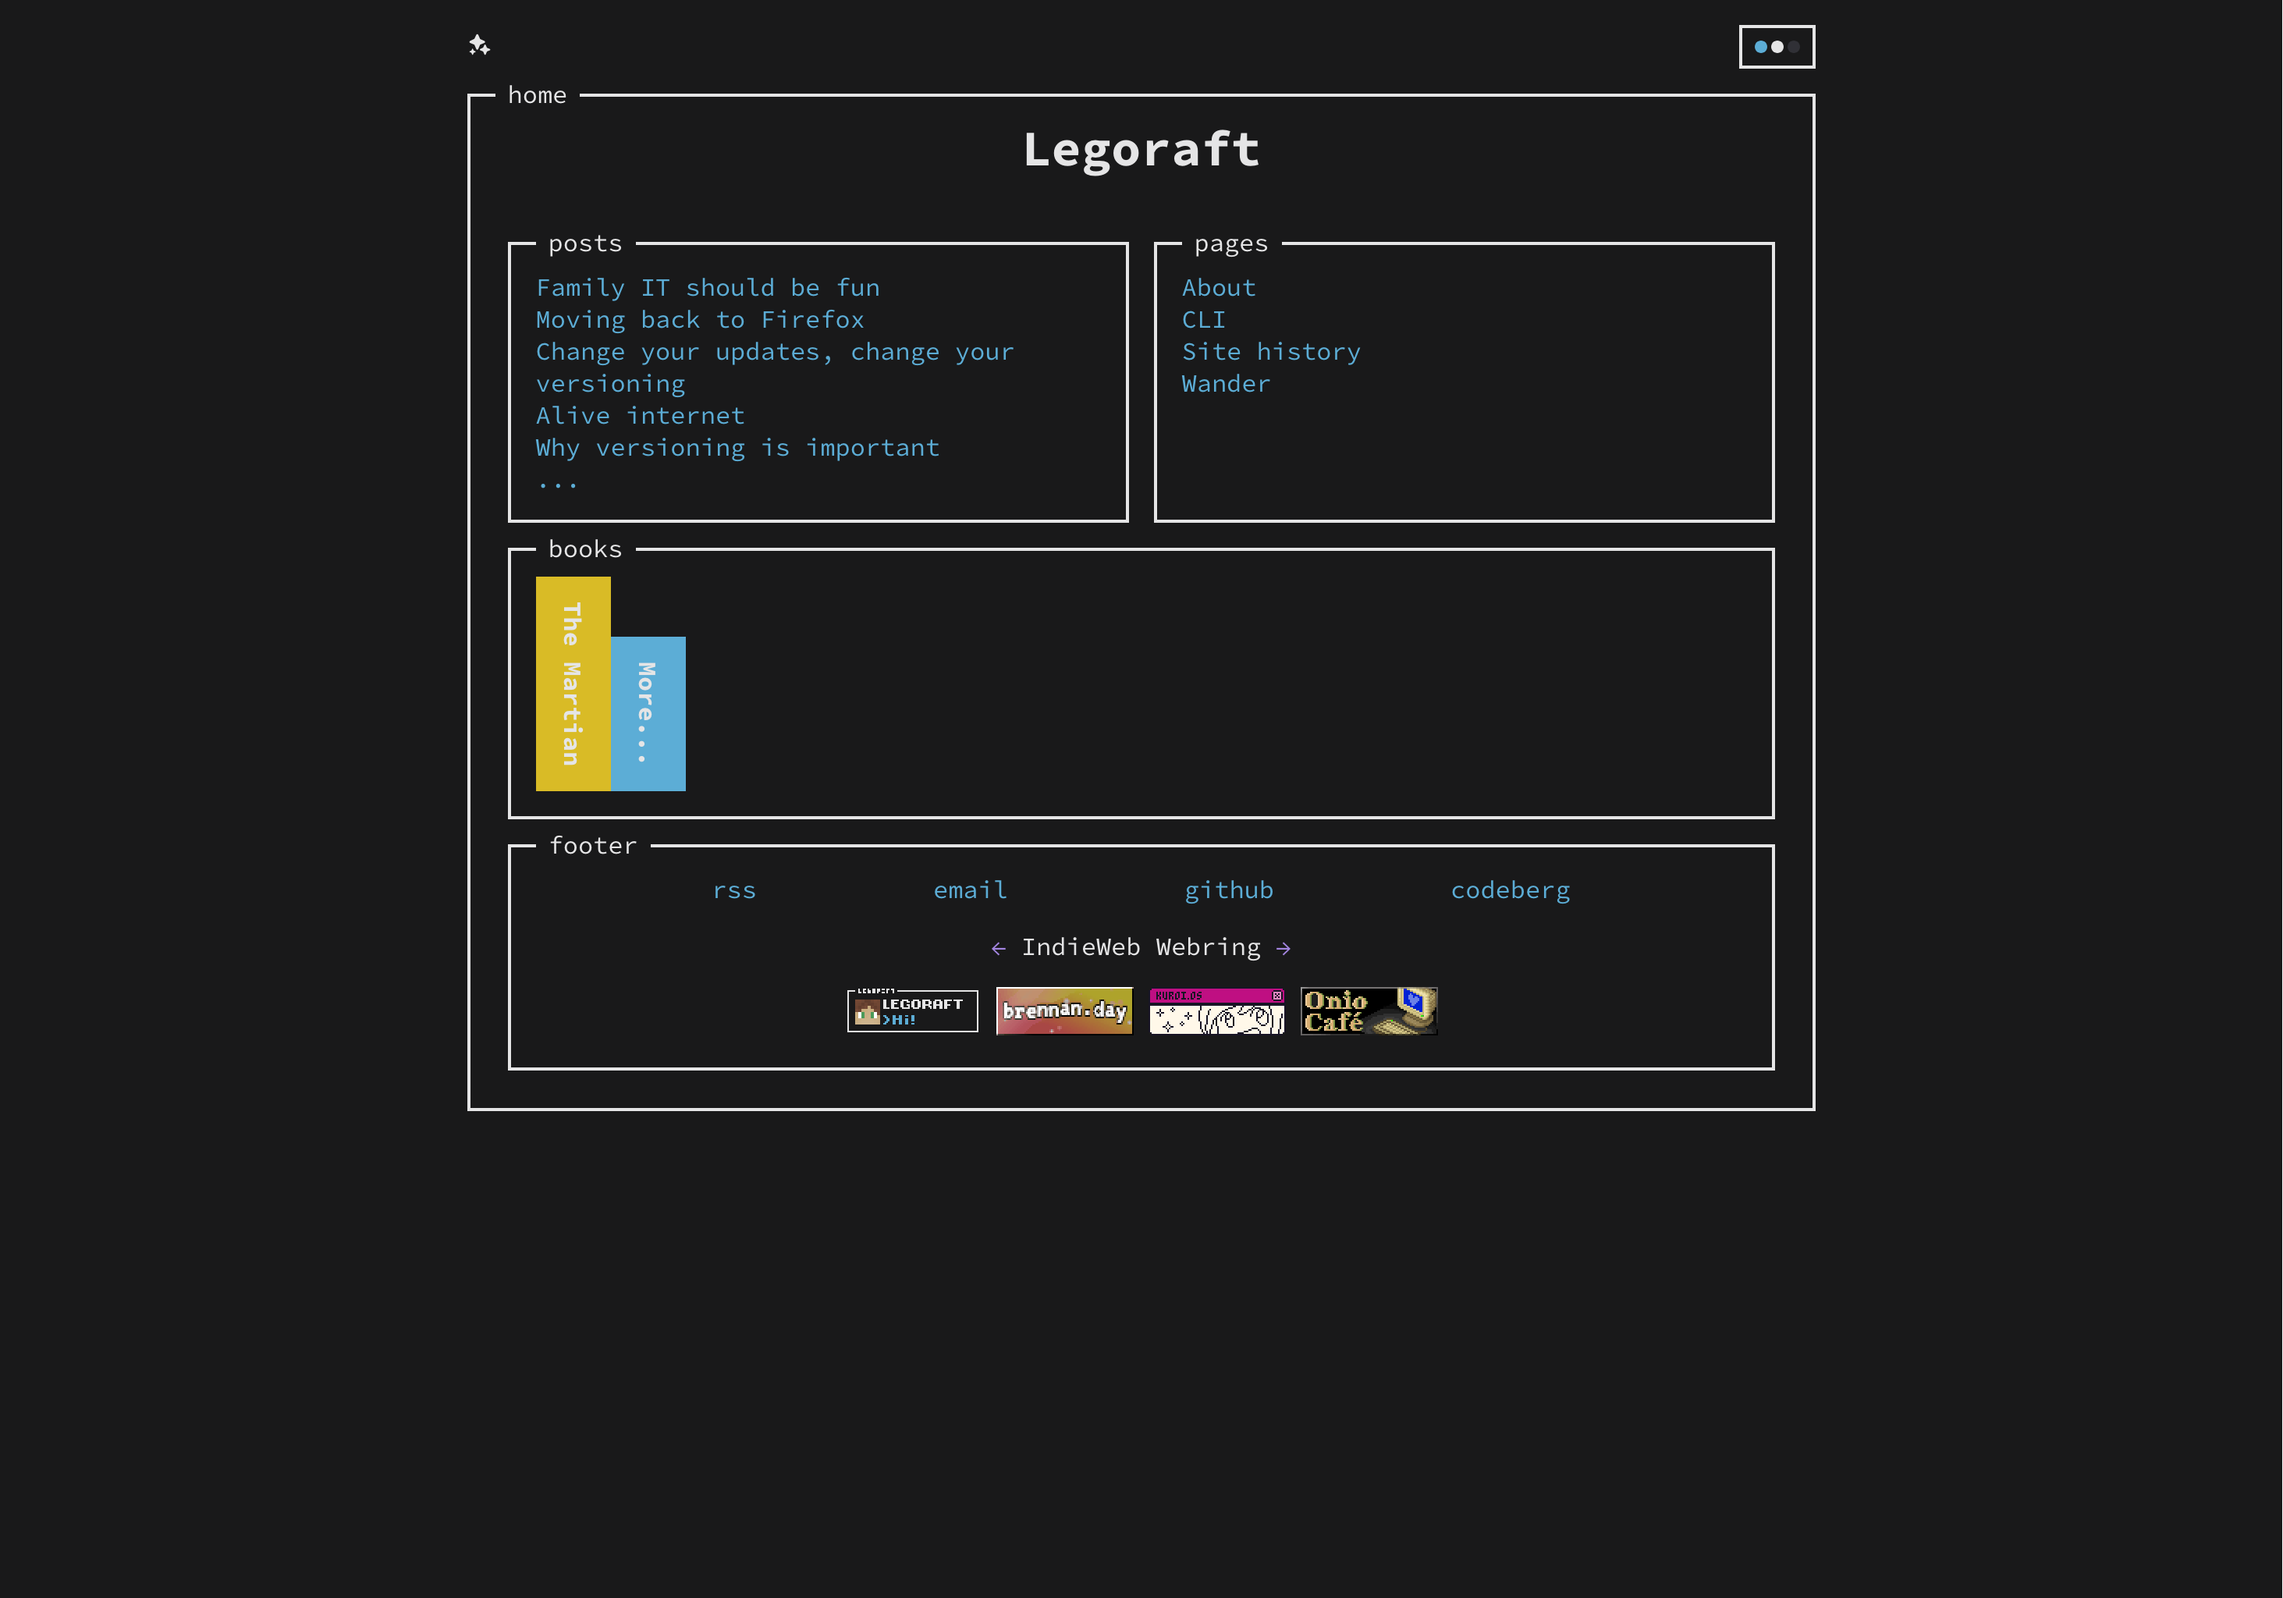
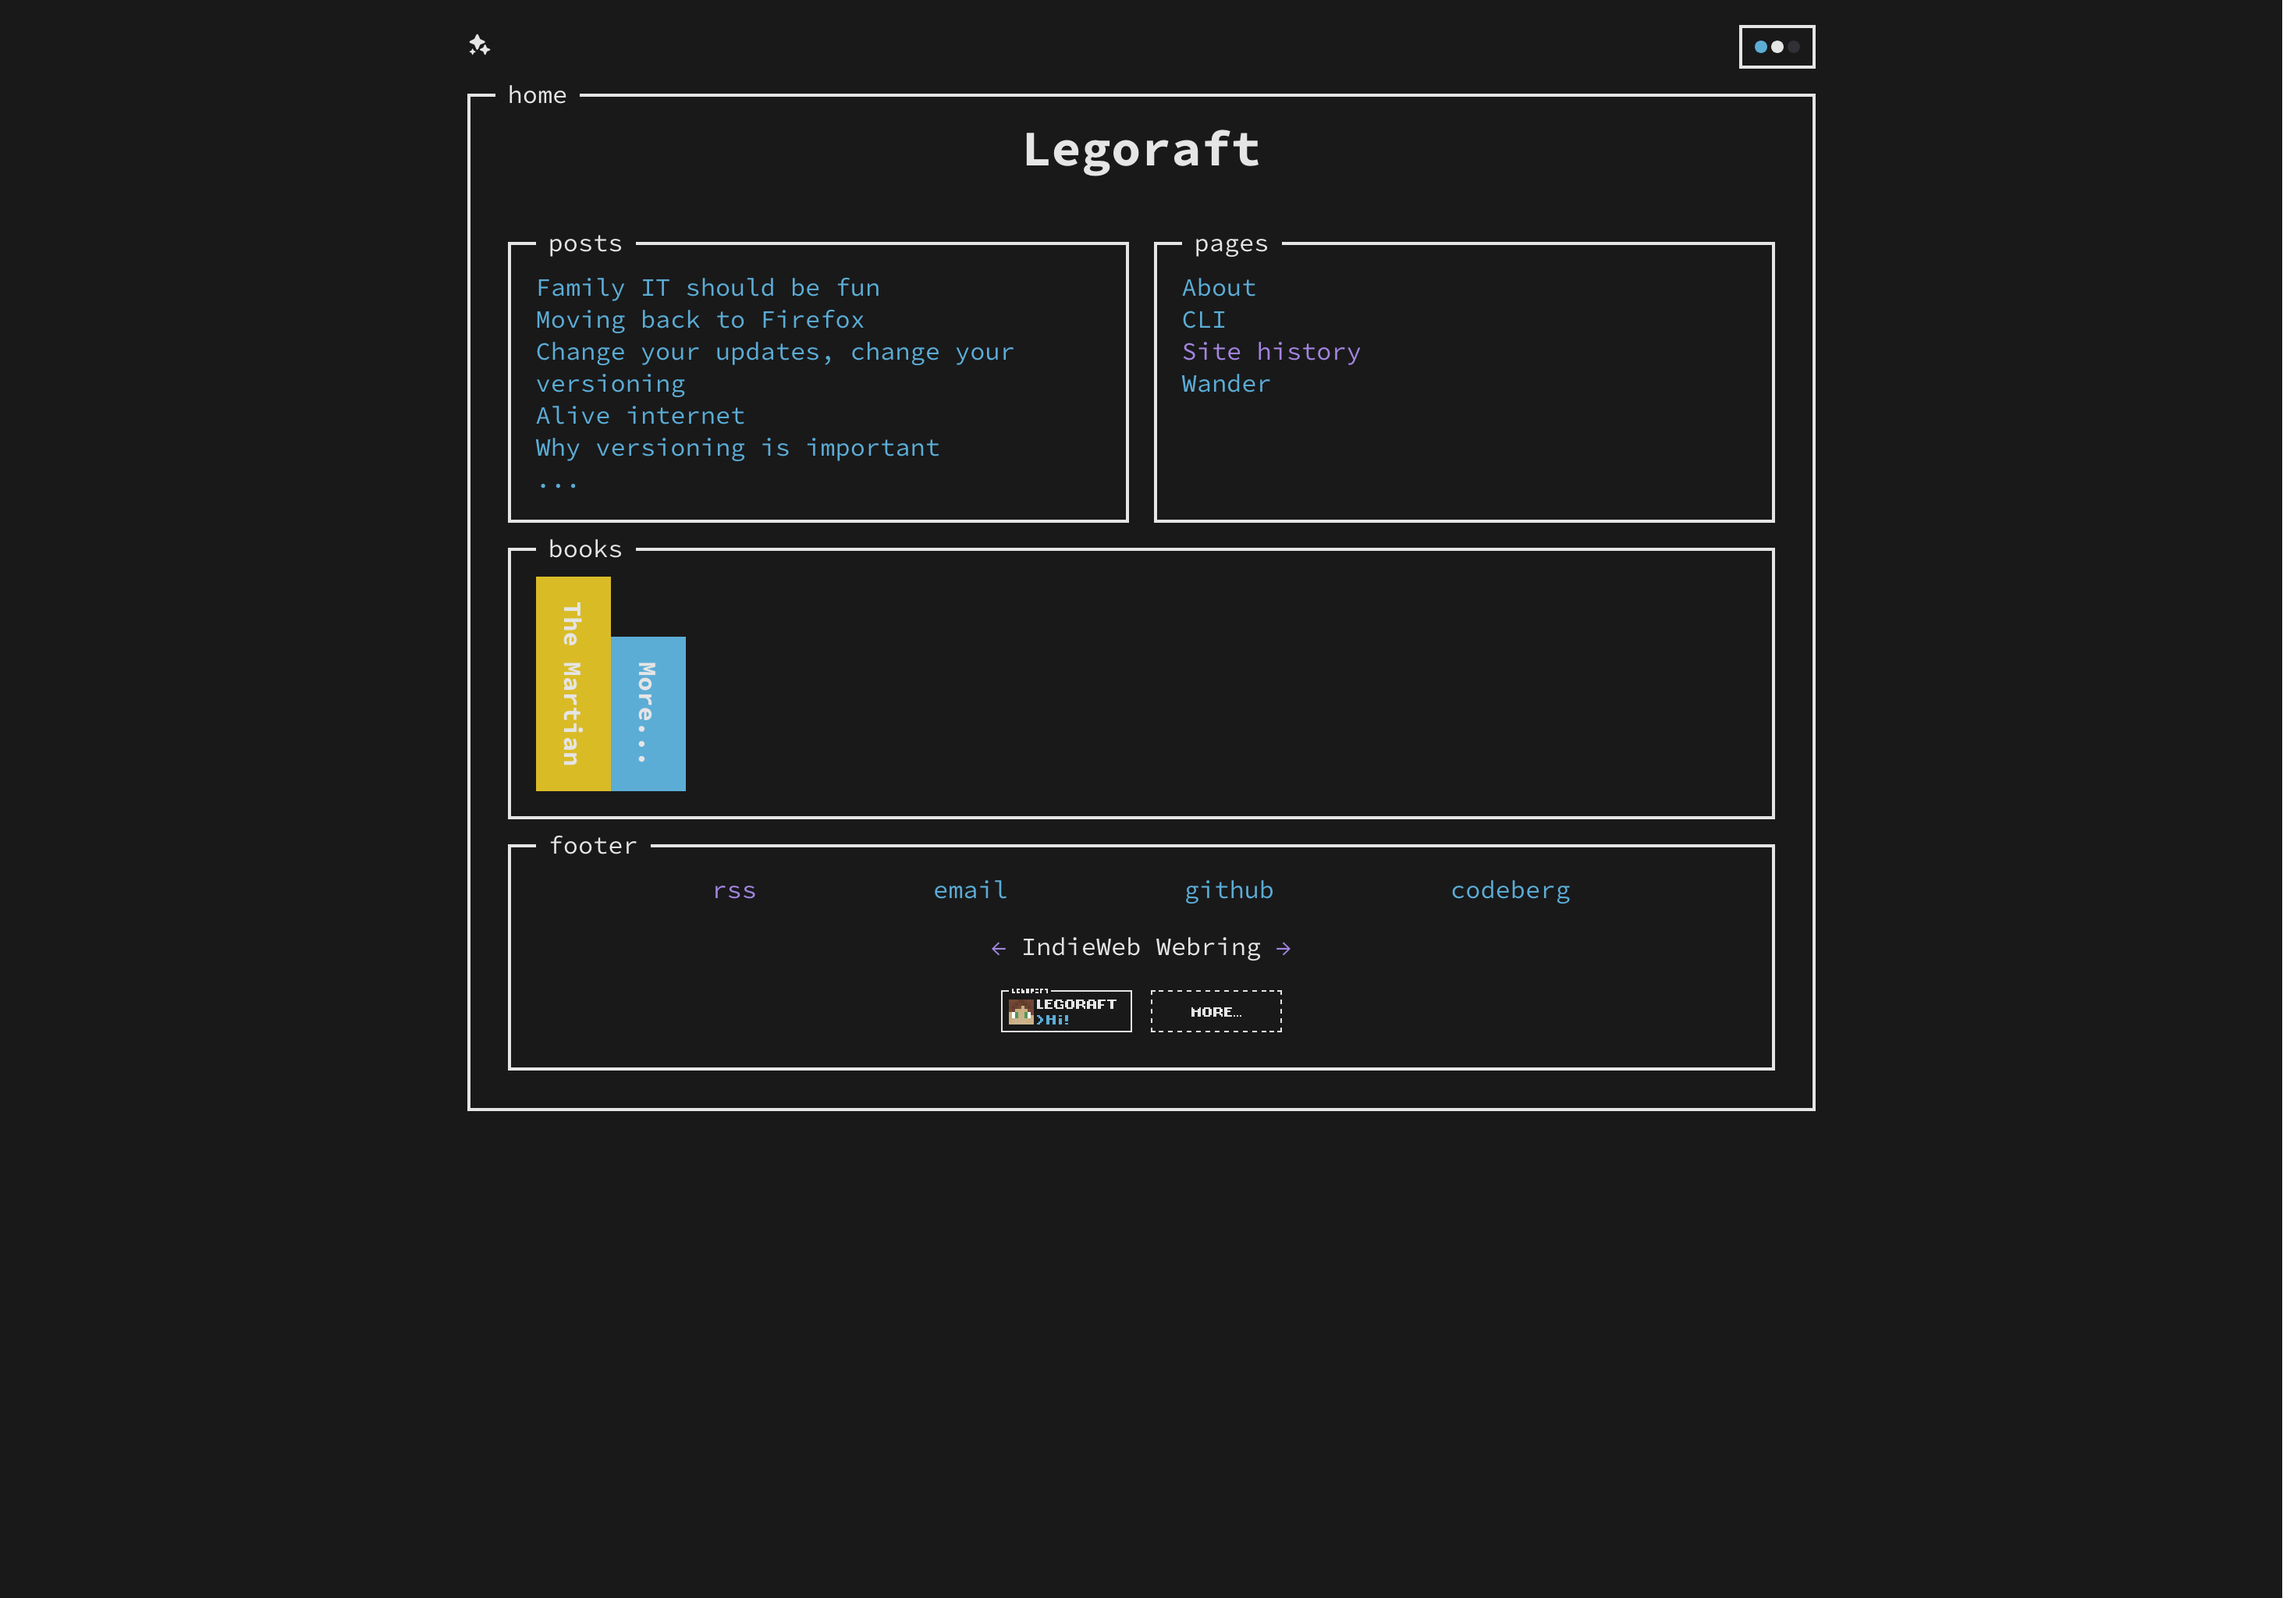
page: adjusted history page slightly

Changed region(s): [[0.4354, 0.5938, 0.6531, 0.6562], [0.3732, 0.625, 0.4043, 0.6562]]

diff --git a/content/pages/history.md b/content/pages/history.md
@@ -27,7 +27,7 @@ I also made the decision to allow people to choose their own theme. I love custo
 
 ## Indie Web
 
-After creating my own theme and having more fun with my site, I started surfing the web more and more and found out about [webrings](https://indieweb.org/webring) and [88x31 badges/buttons](https://indieweb.org/buttons). I wanted to add some to my own site, so this naturally became the next iteration of my website. I also wanted to have a place to talk about the books I've read, so a custom bookshelf was also _very_ necessary.
+After creating my own theme and having more fun with my site, I started surfing the web more and more and found out about [webrings](https://indieweb.org/webring) and [88x31 badges/buttons](https://indieweb.org/buttons). I wanted to add some to my own site, so this naturally became the next iteration of my website. This also led to the creation of [/buttons](/buttons) I also wanted to have a place to talk about the books I've read, so a custom bookshelf was also _very_ necessary.
 
 I also created my own [button](/images/buttons/legoraft-button.gif), that others can add to their sites. I created it in Krita and learned some of its animating workflow along the way.
 
